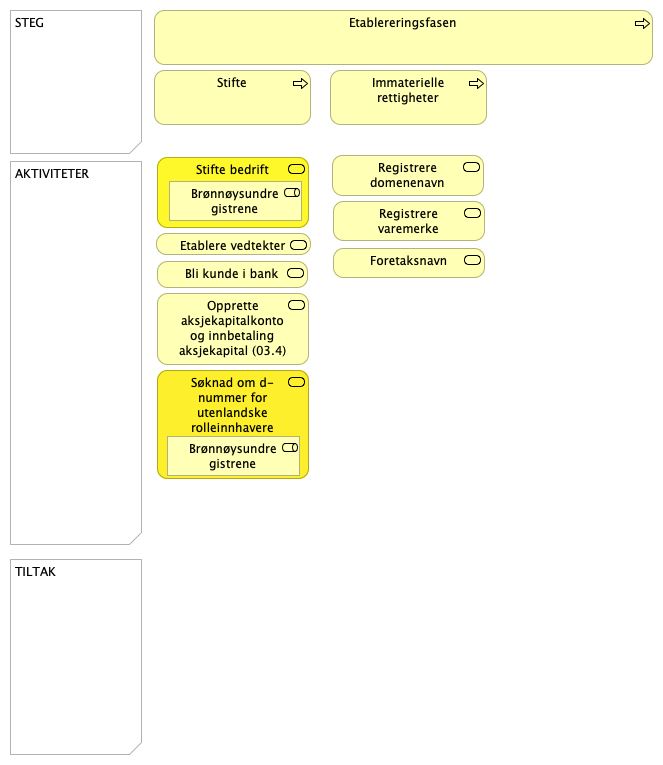
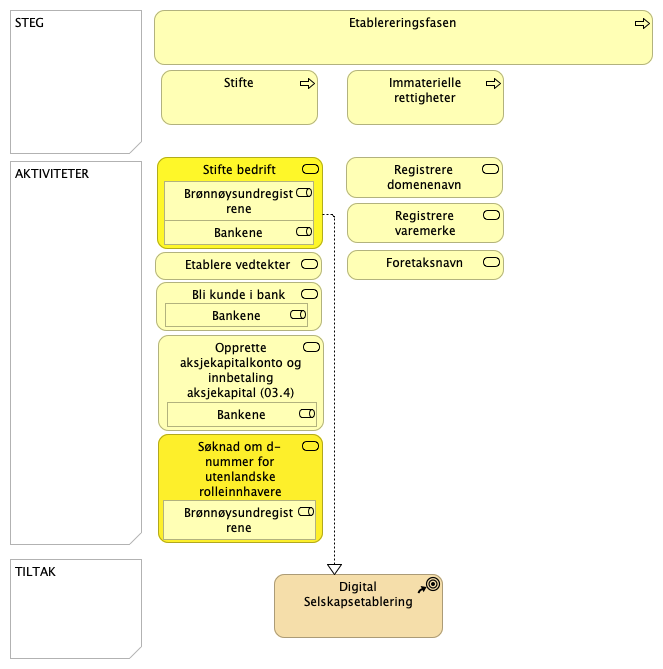
drive og avvikle

diff --git a/docs/id-0322705d/views/8705365a-713b-429e-b0c5-0ee134981660.html b/docs/id-0322705d/views/8705365a-713b-429e-b0c5-0ee134981660.html
@@ -28,20 +28,26 @@
 			<img class="diagram" src="../images/8705365a-713b-429e-b0c5-0ee134981660.png" alt="B - Etableringsfase Steg 04-05 stifte og immatrielle rettigheter" usemap="#8705365a-713b-429e-b0c5-0ee134981660map">
 			<map name="8705365a-713b-429e-b0c5-0ee134981660map">
 						<area shape="rect" coords="154,10,653,65" href="../elements/id-9ee94c99-0309-4976-82a6-858e3c457610.html"  target="element">
-						<area shape="rect" coords="333,201,485,241" href="../elements/id-e0964f91-c817-41d1-b9bd-1156335c04a4.html"  target="element">
-						<area shape="rect" coords="332,155,484,196" href="../elements/id-426b972a-decc-4f77-80d5-d63178a0252f.html"  target="element">
-								<area shape="rect" coords="167,436,300,476" href="../elements/id-85e0d52e-1714-402c-9d18-fdf28509f205.html"  target="element">
+						<area shape="rect" coords="347,203,504,243" href="../elements/id-e0964f91-c817-41d1-b9bd-1156335c04a4.html"  target="element">
+						<area shape="rect" coords="346,157,503,198" href="../elements/id-426b972a-decc-4f77-80d5-d63178a0252f.html"  target="element">
+								<area shape="rect" coords="163,500,316,540" href="../elements/id-85e0d52e-1714-402c-9d18-fdf28509f205.html"  target="element">
 
-						<area shape="rect" coords="157,370,309,479" href="../elements/id-7ff8af98-5e63-4fa8-8022-edb61429e6af.html"  target="element">
-						<area shape="rect" coords="154,70,311,125" href="../elements/id-50cd1497-82cc-4789-a4eb-c5e70a4c7d91.html"  target="element">
-						<area shape="rect" coords="157,293,309,365" href="../elements/id-a304c24f-3f03-4bb0-b699-6dbf7a162beb.html"  target="element">
-						<area shape="rect" coords="157,261,308,288" href="../elements/id-62be3e13-e770-41a6-89ba-c2eaae7d30b1.html"  target="element">
-						<area shape="rect" coords="156,233,311,255" href="../elements/id-0563b78c-e30c-4c4d-ac77-aa0cd276f4ad.html"  target="element">
-								<area shape="rect" coords="169,181,302,221" href="../elements/id-85e0d52e-1714-402c-9d18-fdf28509f205.html"  target="element">
+						<area shape="rect" coords="158,434,323,543" href="../elements/id-7ff8af98-5e63-4fa8-8022-edb61429e6af.html"  target="element">
+						<area shape="rect" coords="161,70,318,125" href="../elements/id-50cd1497-82cc-4789-a4eb-c5e70a4c7d91.html"  target="element">
+								<area shape="rect" coords="167,402,317,427" href="../elements/id-c3096e8e-e659-43e6-bb25-6320a459b965.html"  target="element">
 
-						<area shape="rect" coords="157,157,309,228" href="../elements/id-ae3a44ff-1e8b-4886-9e6d-d6f2ca3be349.html"  target="element">
-						<area shape="rect" coords="330,70,487,125" href="../elements/id-68b7a21b-4922-4e46-a6b7-58fd41f70f33.html"  target="element">
-						<area shape="rect" coords="333,248,485,278" href="../elements/id-b2f06fc9-2ff7-46d8-84d0-6ffa4f1c405c.html"  target="element">
+						<area shape="rect" coords="158,335,324,431" href="../elements/id-a304c24f-3f03-4bb0-b699-6dbf7a162beb.html"  target="element">
+								<area shape="rect" coords="165,303,308,327" href="../elements/id-c3096e8e-e659-43e6-bb25-6320a459b965.html"  target="element">
+
+						<area shape="rect" coords="156,282,322,331" href="../elements/id-62be3e13-e770-41a6-89ba-c2eaae7d30b1.html"  target="element">
+						<area shape="rect" coords="155,252,322,280" href="../elements/id-0563b78c-e30c-4c4d-ac77-aa0cd276f4ad.html"  target="element">
+								<area shape="rect" coords="164,181,314,221" href="../elements/id-85e0d52e-1714-402c-9d18-fdf28509f205.html"  target="element">
+								<area shape="rect" coords="164,220,314,245" href="../elements/id-c3096e8e-e659-43e6-bb25-6320a459b965.html"  target="element">
+
+						<area shape="rect" coords="157,157,323,249" href="../elements/id-ae3a44ff-1e8b-4886-9e6d-d6f2ca3be349.html"  target="element">
+						<area shape="rect" coords="347,70,504,125" href="../elements/id-68b7a21b-4922-4e46-a6b7-58fd41f70f33.html"  target="element">
+						<area shape="rect" coords="347,250,504,280" href="../elements/id-b2f06fc9-2ff7-46d8-84d0-6ffa4f1c405c.html"  target="element">
+						<area shape="rect" coords="274,574,443,638" href="../elements/id-9fdfa703-6ac3-43db-8d3f-cddaf645ffb6.html"  target="element">
 
 			</map>
 			<div role="tabpanel">
@@ -91,13 +97,19 @@
 											
 											<tr><td> <a href="../elements/id-50cd1497-82cc-4789-a4eb-c5e70a4c7d91.html" target="element"> Stifte </a> </td><td class="i18n-elementtype-BusinessProcess"></td></tr>
 											<tr><td> <a href="../elements/id-a304c24f-3f03-4bb0-b699-6dbf7a162beb.html" target="element"> Opprette aksjekapitalkonto og innbetaling aksjekapital (03.4) </a> </td><td class="i18n-elementtype-BusinessService"></td></tr>
+													<tr><td> <a href="../elements/id-c3096e8e-e659-43e6-bb25-6320a459b965.html" target="element"> Bankene </a> </td><td class="i18n-elementtype-BusinessRole"></td></tr>
+											
 											<tr><td> <a href="../elements/id-62be3e13-e770-41a6-89ba-c2eaae7d30b1.html" target="element"> Bli kunde i bank </a> </td><td class="i18n-elementtype-BusinessService"></td></tr>
+													<tr><td> <a href="../elements/id-c3096e8e-e659-43e6-bb25-6320a459b965.html" target="element"> Bankene </a> </td><td class="i18n-elementtype-BusinessRole"></td></tr>
+											
 											<tr><td> <a href="../elements/id-0563b78c-e30c-4c4d-ac77-aa0cd276f4ad.html" target="element"> Etablere vedtekter </a> </td><td class="i18n-elementtype-BusinessService"></td></tr>
 											<tr><td> <a href="../elements/id-ae3a44ff-1e8b-4886-9e6d-d6f2ca3be349.html" target="element"> Stifte bedrift </a> </td><td class="i18n-elementtype-BusinessService"></td></tr>
 													<tr><td> <a href="../elements/id-85e0d52e-1714-402c-9d18-fdf28509f205.html" target="element"> Br&#248;nn&#248;ysundregistrene </a> </td><td class="i18n-elementtype-BusinessRole"></td></tr>
+													<tr><td> <a href="../elements/id-c3096e8e-e659-43e6-bb25-6320a459b965.html" target="element"> Bankene </a> </td><td class="i18n-elementtype-BusinessRole"></td></tr>
 											
 											<tr><td> <a href="../elements/id-68b7a21b-4922-4e46-a6b7-58fd41f70f33.html" target="element"> Immaterielle rettigheter </a> </td><td class="i18n-elementtype-BusinessProcess"></td></tr>
 											<tr><td> <a href="../elements/id-b2f06fc9-2ff7-46d8-84d0-6ffa4f1c405c.html" target="element"> Foretaksnavn </a> </td><td class="i18n-elementtype-BusinessService"></td></tr>
+											<tr><td> <a href="../elements/id-9fdfa703-6ac3-43db-8d3f-cddaf645ffb6.html" target="element"> Digital Selskapsetablering </a> </td><td class="i18n-elementtype-CourseOfAction"></td></tr>
 
 								</tbody>
 							</table>
@@ -125,9 +137,39 @@
 
 											
 																			<tr>
+																				<td> <a href="../elements/88275f4c-6c9d-4ceb-8e58-b94ab068050c.html" target="element">  </a> </td>
+																				<td> <a href="../elements/88275f4c-6c9d-4ceb-8e58-b94ab068050c.html" target="element" class="i18n-elementtype-AssignmentRelationship"></a> </td>
+																				<td> <a href="../elements/id-c3096e8e-e659-43e6-bb25-6320a459b965.html" target="element"> Bankene </a> </td>
+																				<td> <a href="../elements/id-a304c24f-3f03-4bb0-b699-6dbf7a162beb.html" target="element"> Opprette aksjekapitalkonto og innbetaling aksjekapital (03.4) </a> </td>
+																			</tr>
+
+											
+																			<tr>
+																				<td> <a href="../elements/99253df1-dae5-421f-ba80-00c1bf63de4c.html" target="element">  </a> </td>
+																				<td> <a href="../elements/99253df1-dae5-421f-ba80-00c1bf63de4c.html" target="element" class="i18n-elementtype-AssignmentRelationship"></a> </td>
+																				<td> <a href="../elements/id-c3096e8e-e659-43e6-bb25-6320a459b965.html" target="element"> Bankene </a> </td>
+																				<td> <a href="../elements/id-62be3e13-e770-41a6-89ba-c2eaae7d30b1.html" target="element"> Bli kunde i bank </a> </td>
+																			</tr>
+
+											
+																	<tr>
+																		<td> <a href="../elements/id-5e264282-37da-4002-81a7-d38a15c161a2.html" target="element">  </a> </td>
+																		<td> <a href="../elements/id-5e264282-37da-4002-81a7-d38a15c161a2.html" target="element" class="i18n-elementtype-RealizationRelationship"></a> </td>
+																		<td> <a href="../elements/id-ae3a44ff-1e8b-4886-9e6d-d6f2ca3be349.html" target="element"> Stifte bedrift </a> </td>
+																		<td> <a href="../elements/id-9fdfa703-6ac3-43db-8d3f-cddaf645ffb6.html" target="element"> Digital Selskapsetablering </a> </td>
+																	</tr>
+
+																			<tr>
 																				<td> <a href="../elements/id-4816bcdc-ac4b-45ef-9256-140394900e08.html" target="element">  </a> </td>
 																				<td> <a href="../elements/id-4816bcdc-ac4b-45ef-9256-140394900e08.html" target="element" class="i18n-elementtype-AssignmentRelationship"></a> </td>
 																				<td> <a href="../elements/id-85e0d52e-1714-402c-9d18-fdf28509f205.html" target="element"> Br&#248;nn&#248;ysundregistrene </a> </td>
+																				<td> <a href="../elements/id-ae3a44ff-1e8b-4886-9e6d-d6f2ca3be349.html" target="element"> Stifte bedrift </a> </td>
+																			</tr>
+
+																			<tr>
+																				<td> <a href="../elements/be8dd884-c1ba-4aa5-b8ae-3a802d61fe61.html" target="element">  </a> </td>
+																				<td> <a href="../elements/be8dd884-c1ba-4aa5-b8ae-3a802d61fe61.html" target="element" class="i18n-elementtype-AssignmentRelationship"></a> </td>
+																				<td> <a href="../elements/id-c3096e8e-e659-43e6-bb25-6320a459b965.html" target="element"> Bankene </a> </td>
 																				<td> <a href="../elements/id-ae3a44ff-1e8b-4886-9e6d-d6f2ca3be349.html" target="element"> Stifte bedrift </a> </td>
 																			</tr>
 

diff --git a/docs/id-0322705d/elements/88275f4c-6c9d-4ceb-8e58-b94ab068050c.html b/docs/id-0322705d/elements/88275f4c-6c9d-4ceb-8e58-b94ab068050c.html
@@ -1,0 +1,69 @@
+<!DOCTYPE HTML PUBLIC "-//W3C//DTD HTML 4.01 Transitional//EN" "http://www.w3.org/TR/html4/loose.dtd">
+<html class="frame" lang="en">
+<head>
+	<meta http-equiv="Content-Type" content="text/html;charset=utf-8">
+	<title></title>
+
+	<!-- JQUERY (use 1.x branch to be compatible with IE 6/7/8) -->
+	<script type="text/javascript" src="../../lib/jquery/js/jquery-1.11.2.min.js"></script>
+	<!-- BOOTSTRAP -->
+	<link type="text/css" rel="stylesheet" href="../../lib/bootstrap/css/bootstrap-3.3.2.min.css">
+	<link type="text/css" rel="stylesheet" href="../../lib/bootstrap/css/bootstrap-theme-3.3.2.min.css">
+	<script type="text/javascript" src="../../lib/bootstrap/js/bootstrap-3.3.2.min.js"></script>
+	<!-- REPORT SPECIFIC -->
+	<link type="text/css" rel="stylesheet" href="../../css/model.css">
+	<link type="text/css" rel="stylesheet" href="../../css/i18n.css">
+	<script type="text/javascript" src="../../js/frame.js"></script>
+	<script type="text/javascript" src="../../js/imageMapResizer.min.js"></script>
+</head>
+
+<body>
+	<div class="panel panel-default root-panel">
+		<div class="panel-heading root-panel-heading">
+			<b></b>
+			(<span class="i18n-elementtype-AssignmentRelationship"></span>)
+			<a class="glyphicon glyphicon-info-sign" id="hint-AssignmentRelationship" target="hint"></a>
+		</div>
+		<div class="panel-body root-panel-body">
+			<div role="tabpanel">
+				<!-- Nav tabs -->
+				<ul class="nav nav-tabs" role="tablist">
+					<li role="presentation" class="active"><a href="#documentation" aria-controls="documentation" role="tab" data-toggle="tab" class="i18n-documentation"></a></li>
+					<li role="presentation"><a href="#properties" aria-controls="properties" role="tab" data-toggle="tab" class="i18n-properties"></a></li>
+				</ul>
+
+				<!-- Tab panes -->
+				<div class="tab-content">
+					<div role="tabpanel" class="tab-pane active" id="documentation">
+							<br>
+							<b class="i18n-relation-source"></b>
+								<a href="../elements/id-c3096e8e-e659-43e6-bb25-6320a459b965.html" target="element">
+									Bankene
+								</a> <br>
+							<b class="i18n-relation-target"></b>
+								<a href="../elements/id-a304c24f-3f03-4bb0-b699-6dbf7a162beb.html" target="element">
+									Opprette aksjekapitalkonto og innbetaling aksjekapital (03.4)
+								</a> <br>
+							<br>
+						<textarea id="docsrc" style="display:none"></textarea>
+						<div id="doctgt" style="white-space:pre-wrap"></div>
+					</div>
+					<div role="tabpanel" class="tab-pane" id="properties">
+						<table class="table table-striped table-hover table-condensed">
+							<thead>
+								<tr>
+									<th class="i18n-key"></th>
+									<th class="i18n-value"></th>
+								</tr>
+							</thead>
+							<tbody>
+							</tbody>
+						</table>
+					</div>
+			  </div>
+			</div>
+		</div>
+	</div>
+	<script type="text/javascript">imageMapResize();</script>
+</body>
+</html>

diff --git a/docs/id-0322705d/elements/99253df1-dae5-421f-ba80-00c1bf63de4c.html b/docs/id-0322705d/elements/99253df1-dae5-421f-ba80-00c1bf63de4c.html
@@ -1,0 +1,69 @@
+<!DOCTYPE HTML PUBLIC "-//W3C//DTD HTML 4.01 Transitional//EN" "http://www.w3.org/TR/html4/loose.dtd">
+<html class="frame" lang="en">
+<head>
+	<meta http-equiv="Content-Type" content="text/html;charset=utf-8">
+	<title></title>
+
+	<!-- JQUERY (use 1.x branch to be compatible with IE 6/7/8) -->
+	<script type="text/javascript" src="../../lib/jquery/js/jquery-1.11.2.min.js"></script>
+	<!-- BOOTSTRAP -->
+	<link type="text/css" rel="stylesheet" href="../../lib/bootstrap/css/bootstrap-3.3.2.min.css">
+	<link type="text/css" rel="stylesheet" href="../../lib/bootstrap/css/bootstrap-theme-3.3.2.min.css">
+	<script type="text/javascript" src="../../lib/bootstrap/js/bootstrap-3.3.2.min.js"></script>
+	<!-- REPORT SPECIFIC -->
+	<link type="text/css" rel="stylesheet" href="../../css/model.css">
+	<link type="text/css" rel="stylesheet" href="../../css/i18n.css">
+	<script type="text/javascript" src="../../js/frame.js"></script>
+	<script type="text/javascript" src="../../js/imageMapResizer.min.js"></script>
+</head>
+
+<body>
+	<div class="panel panel-default root-panel">
+		<div class="panel-heading root-panel-heading">
+			<b></b>
+			(<span class="i18n-elementtype-AssignmentRelationship"></span>)
+			<a class="glyphicon glyphicon-info-sign" id="hint-AssignmentRelationship" target="hint"></a>
+		</div>
+		<div class="panel-body root-panel-body">
+			<div role="tabpanel">
+				<!-- Nav tabs -->
+				<ul class="nav nav-tabs" role="tablist">
+					<li role="presentation" class="active"><a href="#documentation" aria-controls="documentation" role="tab" data-toggle="tab" class="i18n-documentation"></a></li>
+					<li role="presentation"><a href="#properties" aria-controls="properties" role="tab" data-toggle="tab" class="i18n-properties"></a></li>
+				</ul>
+
+				<!-- Tab panes -->
+				<div class="tab-content">
+					<div role="tabpanel" class="tab-pane active" id="documentation">
+							<br>
+							<b class="i18n-relation-source"></b>
+								<a href="../elements/id-c3096e8e-e659-43e6-bb25-6320a459b965.html" target="element">
+									Bankene
+								</a> <br>
+							<b class="i18n-relation-target"></b>
+								<a href="../elements/id-62be3e13-e770-41a6-89ba-c2eaae7d30b1.html" target="element">
+									Bli kunde i bank
+								</a> <br>
+							<br>
+						<textarea id="docsrc" style="display:none"></textarea>
+						<div id="doctgt" style="white-space:pre-wrap"></div>
+					</div>
+					<div role="tabpanel" class="tab-pane" id="properties">
+						<table class="table table-striped table-hover table-condensed">
+							<thead>
+								<tr>
+									<th class="i18n-key"></th>
+									<th class="i18n-value"></th>
+								</tr>
+							</thead>
+							<tbody>
+							</tbody>
+						</table>
+					</div>
+			  </div>
+			</div>
+		</div>
+	</div>
+	<script type="text/javascript">imageMapResize();</script>
+</body>
+</html>

diff --git a/docs/id-0322705d/elements/be8dd884-c1ba-4aa5-b8ae-3a802d61fe61.html b/docs/id-0322705d/elements/be8dd884-c1ba-4aa5-b8ae-3a802d61fe61.html
@@ -1,0 +1,69 @@
+<!DOCTYPE HTML PUBLIC "-//W3C//DTD HTML 4.01 Transitional//EN" "http://www.w3.org/TR/html4/loose.dtd">
+<html class="frame" lang="en">
+<head>
+	<meta http-equiv="Content-Type" content="text/html;charset=utf-8">
+	<title></title>
+
+	<!-- JQUERY (use 1.x branch to be compatible with IE 6/7/8) -->
+	<script type="text/javascript" src="../../lib/jquery/js/jquery-1.11.2.min.js"></script>
+	<!-- BOOTSTRAP -->
+	<link type="text/css" rel="stylesheet" href="../../lib/bootstrap/css/bootstrap-3.3.2.min.css">
+	<link type="text/css" rel="stylesheet" href="../../lib/bootstrap/css/bootstrap-theme-3.3.2.min.css">
+	<script type="text/javascript" src="../../lib/bootstrap/js/bootstrap-3.3.2.min.js"></script>
+	<!-- REPORT SPECIFIC -->
+	<link type="text/css" rel="stylesheet" href="../../css/model.css">
+	<link type="text/css" rel="stylesheet" href="../../css/i18n.css">
+	<script type="text/javascript" src="../../js/frame.js"></script>
+	<script type="text/javascript" src="../../js/imageMapResizer.min.js"></script>
+</head>
+
+<body>
+	<div class="panel panel-default root-panel">
+		<div class="panel-heading root-panel-heading">
+			<b></b>
+			(<span class="i18n-elementtype-AssignmentRelationship"></span>)
+			<a class="glyphicon glyphicon-info-sign" id="hint-AssignmentRelationship" target="hint"></a>
+		</div>
+		<div class="panel-body root-panel-body">
+			<div role="tabpanel">
+				<!-- Nav tabs -->
+				<ul class="nav nav-tabs" role="tablist">
+					<li role="presentation" class="active"><a href="#documentation" aria-controls="documentation" role="tab" data-toggle="tab" class="i18n-documentation"></a></li>
+					<li role="presentation"><a href="#properties" aria-controls="properties" role="tab" data-toggle="tab" class="i18n-properties"></a></li>
+				</ul>
+
+				<!-- Tab panes -->
+				<div class="tab-content">
+					<div role="tabpanel" class="tab-pane active" id="documentation">
+							<br>
+							<b class="i18n-relation-source"></b>
+								<a href="../elements/id-c3096e8e-e659-43e6-bb25-6320a459b965.html" target="element">
+									Bankene
+								</a> <br>
+							<b class="i18n-relation-target"></b>
+								<a href="../elements/id-ae3a44ff-1e8b-4886-9e6d-d6f2ca3be349.html" target="element">
+									Stifte bedrift
+								</a> <br>
+							<br>
+						<textarea id="docsrc" style="display:none"></textarea>
+						<div id="doctgt" style="white-space:pre-wrap"></div>
+					</div>
+					<div role="tabpanel" class="tab-pane" id="properties">
+						<table class="table table-striped table-hover table-condensed">
+							<thead>
+								<tr>
+									<th class="i18n-key"></th>
+									<th class="i18n-value"></th>
+								</tr>
+							</thead>
+							<tbody>
+							</tbody>
+						</table>
+					</div>
+			  </div>
+			</div>
+		</div>
+	</div>
+	<script type="text/javascript">imageMapResize();</script>
+</body>
+</html>

diff --git a/docs/id-0322705d/elements/model.html b/docs/id-0322705d/elements/model.html
@@ -2994,6 +2994,9 @@
 										dataRelationships.push({id:"aaf9aed8-26e4-4db2-9d65-72fb605eca70", type:"AssignmentRelationship", name:decodeURL(""), description:decodeURL(""), sourceid:"id-85e0d52e-1714-402c-9d18-fdf28509f205", targetid:"id-c7540061-b15e-48dc-a0ee-d2a2914552ac"});
 										dataRelationships.push({id:"07d10305-0001-4f40-96d3-1f42133540c7", type:"AssignmentRelationship", name:decodeURL(""), description:decodeURL(""), sourceid:"id-85e0d52e-1714-402c-9d18-fdf28509f205", targetid:"id-7ff8af98-5e63-4fa8-8022-edb61429e6af"});
 										dataRelationships.push({id:"c80e302d-b222-490a-bf9a-bfabafd1988a", type:"AssignmentRelationship", name:decodeURL(""), description:decodeURL(""), sourceid:"id-75417e8a-6c25-4ade-87ff-43a18f340854", targetid:"id-3b1ce81a-98c4-4977-a3e6-0ed56e2ce479"});
+										dataRelationships.push({id:"be8dd884-c1ba-4aa5-b8ae-3a802d61fe61", type:"AssignmentRelationship", name:decodeURL(""), description:decodeURL(""), sourceid:"id-c3096e8e-e659-43e6-bb25-6320a459b965", targetid:"id-ae3a44ff-1e8b-4886-9e6d-d6f2ca3be349"});
+										dataRelationships.push({id:"99253df1-dae5-421f-ba80-00c1bf63de4c", type:"AssignmentRelationship", name:decodeURL(""), description:decodeURL(""), sourceid:"id-c3096e8e-e659-43e6-bb25-6320a459b965", targetid:"id-62be3e13-e770-41a6-89ba-c2eaae7d30b1"});
+										dataRelationships.push({id:"88275f4c-6c9d-4ceb-8e58-b94ab068050c", type:"AssignmentRelationship", name:decodeURL(""), description:decodeURL(""), sourceid:"id-c3096e8e-e659-43e6-bb25-6320a459b965", targetid:"id-a304c24f-3f03-4bb0-b699-6dbf7a162beb"});
 
 
 												<!-- DEBUG: Skipping view A - Idéfase -->

diff --git a/docs/index.html b/docs/index.html
@@ -5998,6 +5998,18 @@
 															<span class="i18n-elementtype-AssignmentRelationship"></span>
 														(Digitaliseringsdirektoratet - Regnskapssystem og oppf&#248;ring i ELMA) 
 													</a></li>
+													<li class="tree-element"><a href="id-0322705d/elements/be8dd884-c1ba-4aa5-b8ae-3a802d61fe61.html" target="element">
+															<span class="i18n-elementtype-AssignmentRelationship"></span>
+														(Bankene - Stifte bedrift) 
+													</a></li>
+													<li class="tree-element"><a href="id-0322705d/elements/99253df1-dae5-421f-ba80-00c1bf63de4c.html" target="element">
+															<span class="i18n-elementtype-AssignmentRelationship"></span>
+														(Bankene - Bli kunde i bank) 
+													</a></li>
+													<li class="tree-element"><a href="id-0322705d/elements/88275f4c-6c9d-4ceb-8e58-b94ab068050c.html" target="element">
+															<span class="i18n-elementtype-AssignmentRelationship"></span>
+														(Bankene - Opprette aksjekapitalkonto og innbetaling aksjekapital (03.4)) 
+													</a></li>
 
 									</ul>
 								</li>
